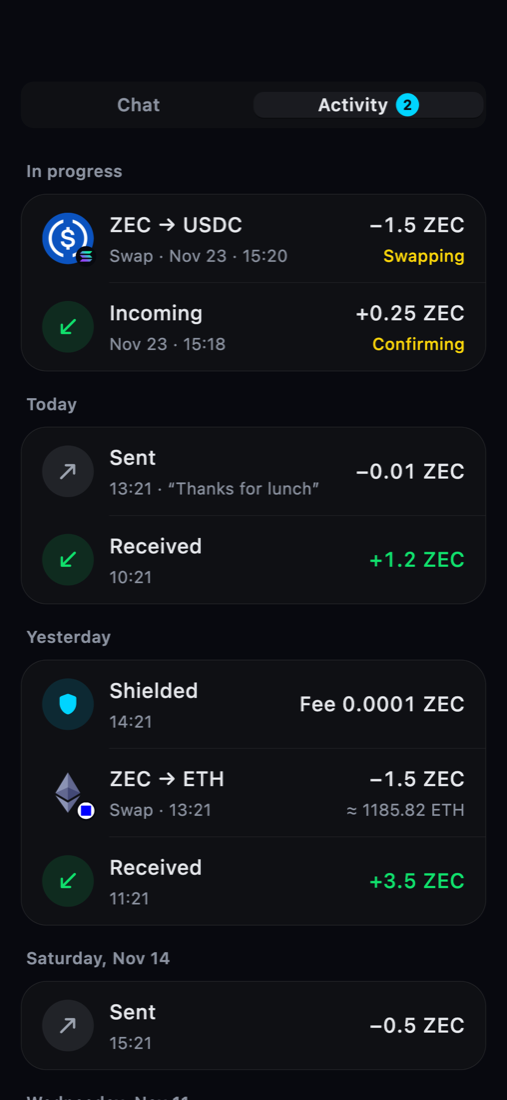
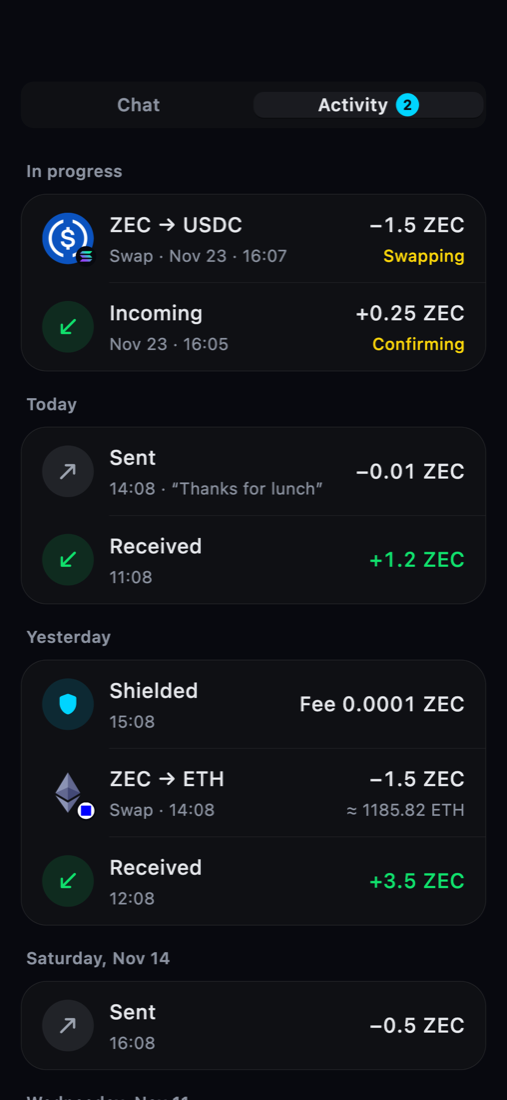
Review card: clear hierarchy and one pinned action
Titled header with Cancel, each side of the exchange in its own panel with
the token logo on the right and a swap badge between them, fact rows with
values flush right, and a single full-width Confirm pinned above the
composer. Drop the primary button glow, which rendered as a slab.

diff --git a/lib/pages/action/widgets/wallet_review_card.dart b/lib/pages/action/widgets/wallet_review_card.dart
@@ -215,12 +215,18 @@ class _WalletReviewCardState extends State<WalletReviewCard> {
   late int _fee = widget.data.fee;
   Timer? _clock;
 
-  static const _label = TextStyle(fontSize: 14, color: ZipherColors.text40);
+  static const _label = TextStyle(fontSize: 15, color: ZipherColors.text40);
   static const _value = TextStyle(
-      fontSize: 14,
+      fontSize: 15,
+      fontWeight: FontWeight.w500,
       color: ZipherColors.text90,
       fontFeatures: [FontFeature.tabularFigures()]);
   static final _mono = ZipherType.mono.copyWith(fontSize: 12);
+
+  /// Inner panel fill for each side of the exchange.
+  static final _panel = BoxDecoration(
+      color: Colors.white.withValues(alpha: 0.035),
+      borderRadius: BorderRadius.circular(ZipherRadius.lg));
 
   @override
   void initState() {
@@ -283,80 +289,98 @@ class _WalletReviewCardState extends State<WalletReviewCard> {
 
   String _zec(int zatoshis) => '${WalletConversation.formatZec(zatoshis)} ZEC';
 
-  Widget _row(String label, String value, {bool strong = false}) => Padding(
-      padding: const EdgeInsets.symmetric(vertical: 6),
-      child: Row(crossAxisAlignment: CrossAxisAlignment.start, children: [
-        Flexible(child: Text(label, style: _label)),
-        const SizedBox(width: ZipherSpacing.md),
-        Expanded(
-            flex: 2,
-            child: Text(value,
-                textAlign: TextAlign.right,
-                style: _value.copyWith(
-                    fontWeight: strong ? FontWeight.w600 : FontWeight.w400))),
-      ]));
+  /// A fact row: label on the left, value pinned to the right edge.
+  Widget _row(String label, String value,
+          {bool strong = false, Widget? trailing}) =>
+      Padding(
+          padding: const EdgeInsets.symmetric(vertical: 6),
+          child: Row(children: [
+            Text(label, style: _label),
+            const SizedBox(width: ZipherSpacing.md),
+            Expanded(
+                child: Align(
+                    alignment: Alignment.centerRight,
+                    child: Text(value,
+                        maxLines: 1,
+                        overflow: TextOverflow.ellipsis,
+                        style: _value.copyWith(
+                            fontWeight:
+                                strong ? FontWeight.w600 : FontWeight.w500)))),
+            if (trailing != null) ...[
+              const SizedBox(width: ZipherSpacing.xs),
+              trailing,
+            ],
+          ]));
 
-  /// One side of the exchange: logo, what it is, and how much.
+  /// One side of the exchange in its own panel: label, amount, then the
+  /// dollar value and network; the token logo sits on the right.
   Widget _side(
           {required Widget icon,
           required String label,
           required String amount,
           String? caption,
           double? usd}) =>
-      Row(crossAxisAlignment: CrossAxisAlignment.center, children: [
-        icon,
-        const SizedBox(width: ZipherSpacing.smMd),
-        Expanded(
-            child:
-                Column(crossAxisAlignment: CrossAxisAlignment.start, children: [
-          Text(label, style: _label.copyWith(fontSize: 13)),
-          const SizedBox(height: 2),
-          FittedBox(
-              fit: BoxFit.scaleDown,
-              alignment: Alignment.centerLeft,
-              child: Text(amount, style: ZipherType.amount)),
-          if (caption != null || usd != null)
-            Padding(
-                padding: const EdgeInsets.only(top: 2),
-                child: Text(
-                    [
-                      if (usd != null) '≈ ${WalletAmounts.dollars(usd)}',
-                      if (caption != null) caption,
-                    ].join(' · '),
-                    style: ZipherType.footnote)),
-        ])),
-      ]);
+      Container(
+          padding: const EdgeInsets.fromLTRB(
+              ZipherSpacing.md, 12, ZipherSpacing.md, 12),
+          decoration: _panel,
+          child: Row(children: [
+            Expanded(
+                child: Column(
+                    crossAxisAlignment: CrossAxisAlignment.start,
+                    children: [
+                  Text(label, style: _label.copyWith(fontSize: 13)),
+                  const SizedBox(height: 4),
+                  FittedBox(
+                      fit: BoxFit.scaleDown,
+                      alignment: Alignment.centerLeft,
+                      child: Text(amount, style: ZipherType.amount)),
+                  if (caption != null || usd != null) ...[
+                    const SizedBox(height: 4),
+                    Text(
+                        [
+                          if (usd != null) '≈ ${WalletAmounts.dollars(usd)}',
+                          if (caption != null) caption,
+                        ].join(' · '),
+                        style: ZipherType.footnote),
+                  ],
+                ])),
+            const SizedBox(width: ZipherSpacing.smMd),
+            icon,
+          ]));
 
   Widget _amounts() {
     final data = widget.data;
     final swap = data.swap;
     final price = data.zecUsd;
-    return Column(crossAxisAlignment: CrossAxisAlignment.stretch, children: [
-      _side(
-          icon: const CurrencyIcon(symbol: 'ZEC', size: 36),
-          label: swap == null ? 'You send' : 'You pay',
-          amount: _zec(data.zatoshis),
-          usd: price == null ? null : data.zatoshis / 1e8 * price),
-      if (swap != null) ...[
-        Padding(
-            padding: const EdgeInsets.symmetric(vertical: 6),
-            child: Row(children: [
-              const SizedBox(
-                  width: 36,
-                  child: Icon(Icons.arrow_downward_rounded,
-                      size: 16, color: ZipherColors.text20)),
-              const SizedBox(width: ZipherSpacing.smMd),
-              Expanded(
-                  child: Container(height: .5, color: ZipherColors.separator)),
-            ])),
+    final pay = _side(
+        icon: const CurrencyIcon(symbol: 'ZEC', size: 40),
+        label: swap == null ? 'You send' : 'You pay',
+        amount: _zec(data.zatoshis),
+        usd: price == null ? null : data.zatoshis / 1e8 * price);
+    if (swap == null) return pay;
+    // Two panels joined by a round swap badge, the familiar exchange layout.
+    return Stack(alignment: Alignment.center, children: [
+      Column(crossAxisAlignment: CrossAxisAlignment.stretch, children: [
+        pay,
+        const SizedBox(height: 6),
         _side(
             icon: CurrencyIcon(
-                symbol: swap.symbol, blockchain: swap.chain, size: 36),
+                symbol: swap.symbol, blockchain: swap.chain, size: 40),
             label: 'You receive',
             amount: '${swap.estimated} ${swap.symbol}',
             caption: 'on ${swap.network}',
             usd: swap.usd),
-      ],
+      ]),
+      Container(
+          width: 34,
+          height: 34,
+          decoration: BoxDecoration(
+              color: ZipherColors.cardBg,
+              shape: BoxShape.circle,
+              border: Border.all(color: ZipherColors.bg, width: 3)),
+          child: const Icon(Icons.arrow_downward_rounded,
+              size: 16, color: ZipherColors.text60)),
     ]);
   }
 
@@ -366,24 +390,16 @@ class _WalletReviewCardState extends State<WalletReviewCard> {
     return Column(crossAxisAlignment: CrossAxisAlignment.stretch, children: [
       InkWell(
           onTap: () => setState(() => _showAddress = !_showAddress),
-          child: Padding(
-              padding: const EdgeInsets.symmetric(vertical: 6),
-              child: Row(children: [
-                const Text('To', style: _label),
-                const SizedBox(width: ZipherSpacing.md),
-                Expanded(
-                    child: Text(
-                        note == null
-                            ? WalletAmounts.shortAddress(data.recipient,
-                                head: 10, tail: 8)
-                            : '$note · ${WalletAmounts.shortAddress(data.recipient, head: 6, tail: 6)}',
-                        textAlign: TextAlign.right,
-                        overflow: TextOverflow.ellipsis,
-                        style: _value)),
-                const SizedBox(width: ZipherSpacing.xs),
-                Icon(_showAddress ? Icons.expand_less : Icons.expand_more,
-                    size: 16, color: ZipherColors.text40),
-              ]))),
+          child: _row(
+              'To',
+              note == null
+                  ? WalletAmounts.shortAddress(data.recipient,
+                      head: 8, tail: 6)
+                  : '$note · ${WalletAmounts.shortAddress(data.recipient, head: 6, tail: 6)}',
+              trailing: Icon(
+                  _showAddress ? Icons.expand_less : Icons.expand_more,
+                  size: 18,
+                  color: ZipherColors.text40))),
       if (_showAddress)
         Padding(
             padding: const EdgeInsets.only(bottom: ZipherSpacing.sm),
@@ -516,20 +532,30 @@ class _WalletReviewCardState extends State<WalletReviewCard> {
   }
 
   /// Cancel / Confirm, inline or in the screen's pinned action bar.
-  Widget _buttons(bool canConfirm) => Row(children: [
-        Expanded(
-            child: ZipherButton(
-                label: 'Cancel',
-                kind: ZipherButtonKind.secondary,
-                onPressed: !_updating ? _cancel : null)),
-        const SizedBox(width: ZipherSpacing.smMd),
-        Expanded(
-            flex: 2,
-            child: ZipherButton(
-                key: WalletReviewCard.confirmKey,
-                label: _updating ? 'Updating…' : widget.confirmLabel,
-                onPressed: canConfirm ? _confirm : null)),
-      ]);
+  /// The confirm action, inline or in the screen's pinned action bar.
+  Widget _buttons(bool canConfirm) => ZipherButton(
+      key: WalletReviewCard.confirmKey,
+      label: _updating ? 'Updating…' : widget.confirmLabel,
+      onPressed: canConfirm ? _confirm : null);
+
+  /// Title of the card with the way out on the right.
+  Widget _header(bool active) => Padding(
+      padding: const EdgeInsets.only(bottom: ZipherSpacing.sm),
+      child: SizedBox(
+          height: 32,
+          child: Row(children: [
+            Expanded(
+                child: Text(
+                    widget.data.swap == null ? 'Review payment' : 'Review swap',
+                    style: ZipherType.headline)),
+            if (active)
+              ZipherButton(
+                  label: 'Cancel',
+                  kind: ZipherButtonKind.plain,
+                  size: ZipherButtonSize.small,
+                  color: ZipherColors.text60,
+                  onPressed: !_updating ? _cancel : null),
+          ])));
 
   /// What became of a review that can no longer be confirmed.
   ({IconData? icon, String text, Color color}) _closed(bool replaced) {
@@ -609,8 +635,6 @@ class _WalletReviewCardState extends State<WalletReviewCard> {
               children: [
                 _amounts(),
                 const SizedBox(height: ZipherSpacing.smMd),
-                Container(height: .5, color: ZipherColors.separator),
-                const SizedBox(height: ZipherSpacing.smMd),
                 Row(children: [
                   if (closed.icon == null)
                     const SizedBox(
@@ -633,10 +657,9 @@ class _WalletReviewCardState extends State<WalletReviewCard> {
         return Column(
             crossAxisAlignment: CrossAxisAlignment.stretch,
             children: [
+              _header(true),
               _amounts(),
-              const SizedBox(height: ZipherSpacing.smMd),
-              Container(height: .5, color: ZipherColors.separator),
-              const SizedBox(height: 6),
+              const SizedBox(height: ZipherSpacing.sm),
               _summary(),
               if (data.warning != null)
                 _note(Icons.visibility_outlined, data.warning!,

diff --git a/lib/zipher_theme.dart b/lib/zipher_theme.dart
@@ -1263,20 +1263,10 @@ class _ZipherButtonState extends State<ZipherButton> {
           gradient: LinearGradient(
             begin: Alignment.topCenter,
             end: Alignment.bottomCenter,
-            colors: [Color.lerp(c, Colors.white, 0.22)!, c],
+            colors: [Color.lerp(c, Colors.white, 0.14)!, c],
           ),
           border: Border.all(
               color: Colors.white.withValues(alpha: 0.28), width: 0.5),
-          boxShadow: _large
-              ? [
-                  // A diffuse halo, mostly hidden under the button.
-                  BoxShadow(
-                      color: c.withValues(alpha: _down ? 0.12 : 0.22),
-                      blurRadius: 28,
-                      spreadRadius: -8,
-                      offset: const Offset(0, 10)),
-                ]
-              : null,
         ),
       // Frosted glass: a faint white veil over a blur of what is behind.
       ZipherButtonKind.secondary => BoxDecoration(

diff --git a/docs/design-system.md b/docs/design-system.md
@@ -78,7 +78,7 @@ Amounts always carry their unit and direction (`+0.25 ZEC`, `−0.01 ZEC`).
 
   | Kind | Look | Use |
   |---|---|---|
-  | `primary` | Cyan capsule with a soft top sheen and a diffuse cyan halo | The one main action: Send, Confirm, Approve, Done |
+  | `primary` | Cyan capsule with a soft top sheen | The one main action: Send, Confirm, Approve, Done |
   | `secondary` | Frosted glass: white 8% over a blur, 0.5 pt light edge | Cancel, Not now, Copy, View on explorer |
   | `tinted` | 14% tint of a color with a matching edge | Destructive (red), or a colored action (Shield, Max) |
   | `plain` | Text only, cyan | Links and low-emphasis actions |
@@ -114,8 +114,11 @@ Amounts always carry their unit and direction (`+0.25 ZEC`, `−0.01 ZEC`).
   Yesterday, a weekday, then dates). Each row has a direction glyph or token
   logo, a title, the time (and memo), and an amount with its sign. A swap shows
   ZEC spent and the quoted amount (`≈`), never as delivered.
-- **Review**: both sides of the exchange first, then To, Rate, Network fee
-  (and Total for sends) and arrival time; then **Details**. Cancel and Confirm
-  are pinned above the composer while the review is open.
+- **Review**: a titled header ("Review swap" / "Review payment") with Cancel
+  on the right; each side of the exchange in its own panel (label, amount,
+  dollar value and network, token logo on the right), joined by a round swap
+  badge; then To, Rate, Network fee (and Total for sends) and arrival time
+  with values flush right; then **Details**. One full-width Confirm is pinned
+  above the composer while the review is open.
 - **Agent**: More → Agent and Wallet status → Agent open the same screen. The
   header shows no agent icon; incoming requests open their own approval screen.
